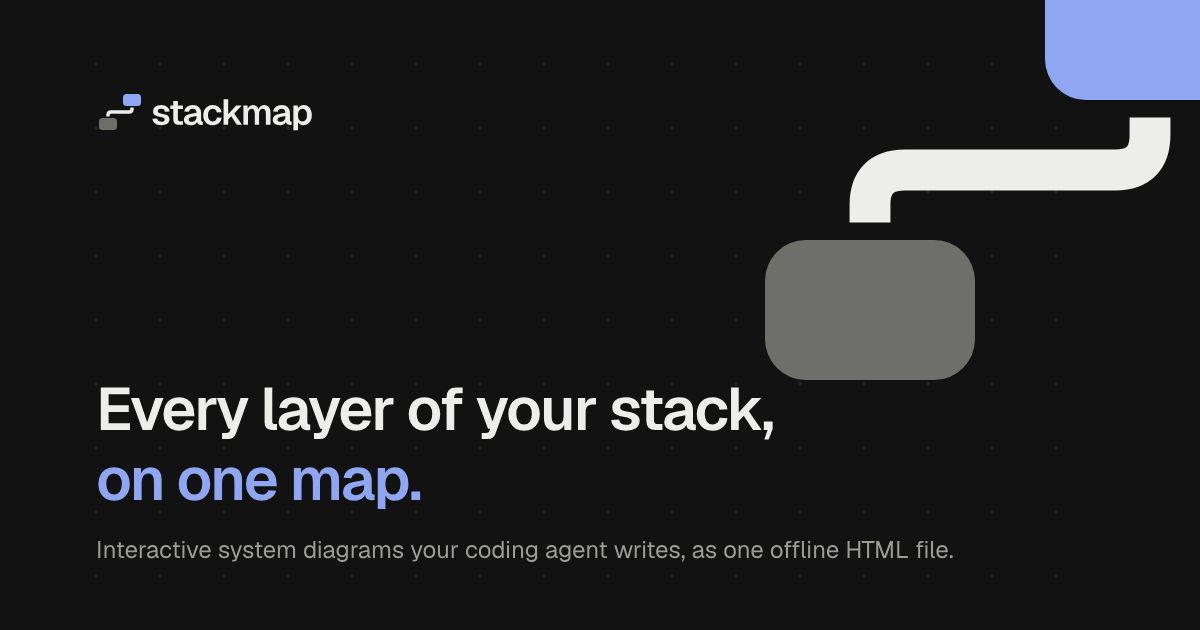
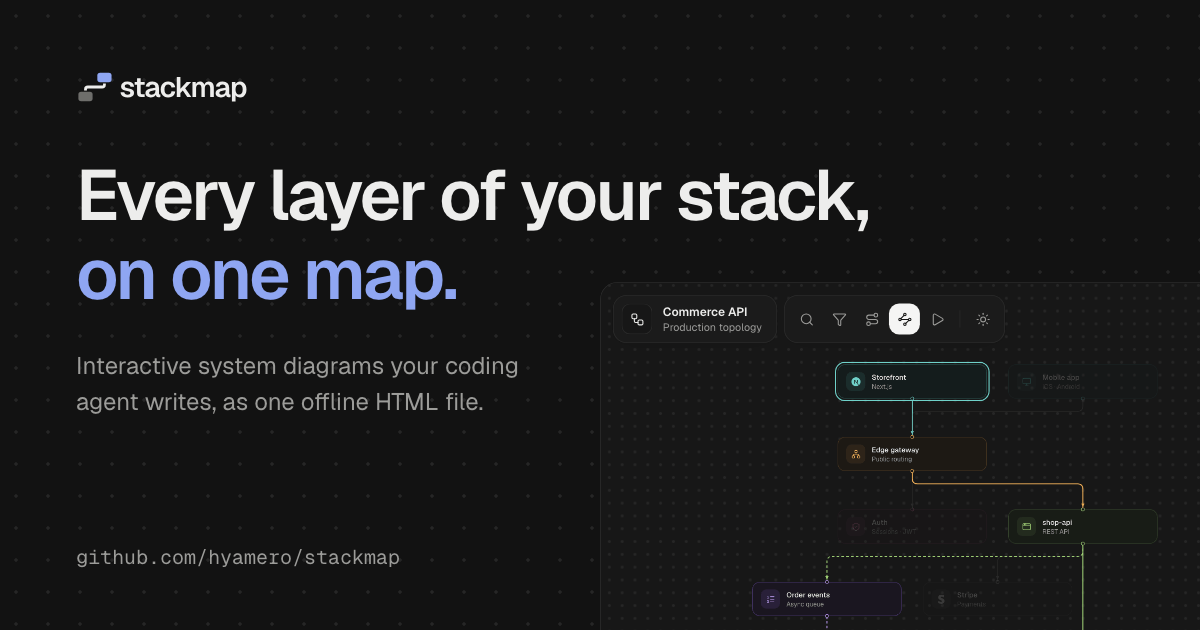
docs(brand): redraw the social card with the real viewer, add a GitHub social preview, and refresh the site's link previews

diff --git a/site/lib/seo.ts b/site/lib/seo.ts
@@ -15,7 +15,7 @@ export const OPEN_GRAPH = {
   type: 'website' as const,
   siteName: SITE_NAME,
   locale: 'en_US',
-  images: [{ url: '/opengraph-image.png', width: 1200, height: 630, alt: 'stackmap: every layer of your stack, on one map' }],
+  images: [{ url: '/opengraph-image.png', width: 1200, height: 630, alt: 'stackmap: every layer of your stack, on one map. The viewer, open on a Commerce API diagram with a route lit' }],
 };
 
 /** Every static page; the sitemap test fails when a page.tsx is added without its route here. */

diff --git a/assets/brand/README.md b/assets/brand/README.md
@@ -21,7 +21,8 @@ Every file carries explicit colours, so pick the light file or its `-dark` twin 
 | `stackmap-app-icon.svg`, `-512.png`, `stackmap-apple-touch-icon-180.png` | The full mark on the near-black icon tile |
 | `stackmap-favicon.svg`, `-32.png`, `-16.png` | The compact mark on the icon tile (inlined in the viewer) |
 | `stackmap-readme-header.png`, `-dark` | The 1280×400 README header at 2×, in a `<picture>` at the full column width |
-| `stackmap-social-card.png`, `.svg`, `-light.svg` | The 1200×630 link preview (`og:image`, the GitHub social preview) |
+| `stackmap-social-card.png`, `-light.png` | The 1200×630 link preview (`og:image`, `twitter:image`); the site serves the dark one |
+| `stackmap-github-preview.png` | The 1280×640 GitHub social preview (Settings › General › Social preview) |
 
 ## Rules
 
